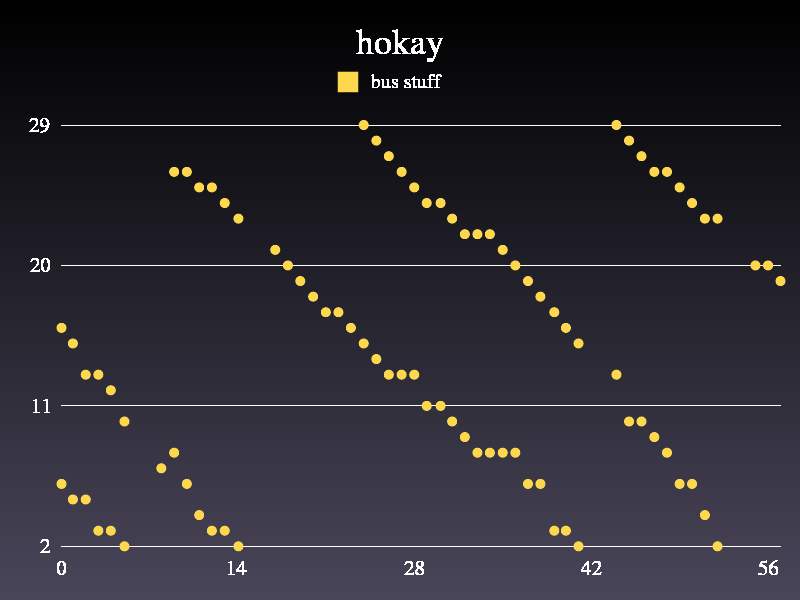
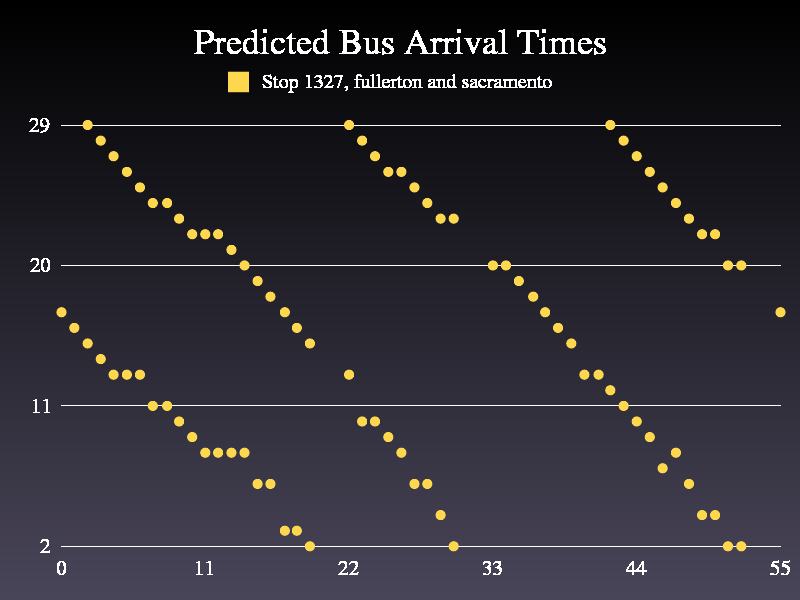
Demo wordage

diff --git a/graphit.rb b/graphit.rb
@@ -20,6 +20,6 @@ x_values = points.map(&:first)
 y_values = points.map(&:last)
 
 g = Gruff::Scatter.new
-g.title = "hokay"
-g.data("bus stuff", x_values, y_values)
+g.title = "Predicted Bus Arrival Times"
+g.data("Stop 1327, fullerton and sacramento", x_values, y_values)
 g.write("out.png")
